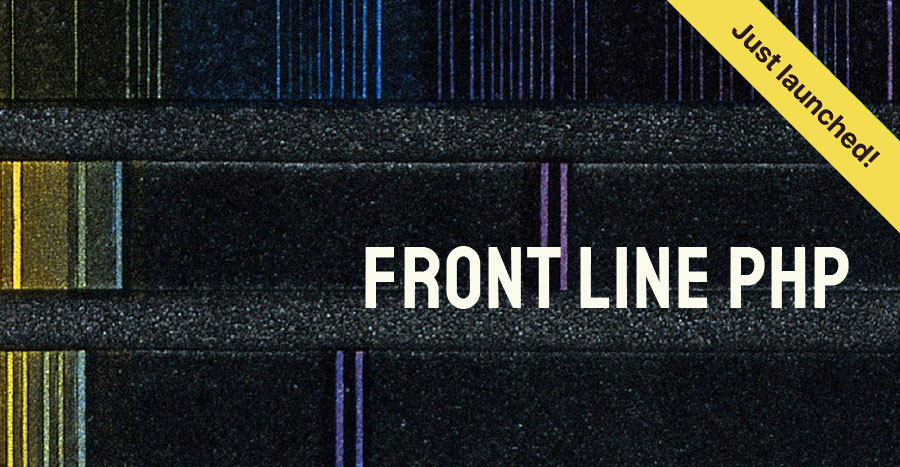
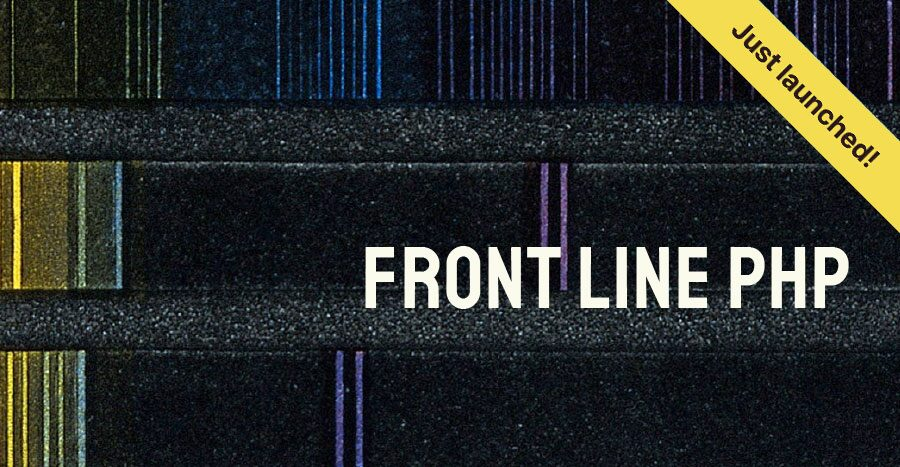
Serve smaller images

Changed region(s): [[0.8089, 0.06, 1.0, 0.3597], [0.84, 0.0, 0.8711, 0.06], [0.9956, 0.4797, 1.0, 0.5096]]

diff --git a/resources/views/front/home/index.blade.php b/resources/views/front/home/index.blade.php
@@ -56,7 +56,7 @@
     <section class="grid md:grid-cols-2 gap-8">
         <div class="">
             <a class="block" href="{{ route('object-oriented') }}">
-                <img alt="Front Line PHP" srcset="/images/cover-1200.jpg 1200w, /images/cover-600.jpg 600w" sizes="500px, (min-width:768px) 45vw" src="/images/cover-1200.jpg" class="mx-auto w-full max-w-xl shadow-2xl">
+                <img alt="Front Line PHP" srcset="/images/cover-1200.webp 1200w, /images/cover-600.webp 600w" sizes="(min-width: 768px) 432px, 576px" src="/images/cover-1200.webp" class="mx-auto w-full max-w-xl shadow-2xl">
                 <div class="absolute top-0 w-full flex justify-center -mt-6">
                     <x-button icon="fas fa-play">
                         Read sample
@@ -67,7 +67,7 @@
 
         <div class="pb-16" x-data="{ open: false }">
             <div class="w-full bg-black group cursor-hand" @click="open = true">
-                <img srcset="/images/intro-1600.jpg 1600w, /images/intro-800.jpg 800w" sizes="100vw, (min-width:768px) 45vw" src="/images/intro-1600.jpg" class="w-full opacity-100 group-hover:opacity-75 transition-opacity duration-300" alt="Video still">
+                <img srcset="/images/intro-1600.webp 1600w, /images/intro-800.webp 800w" sizes="(min-width: 768px) 432px, 100vw" src="/images/intro-1600.webp" class="w-full opacity-100 group-hover:opacity-75 transition-opacity duration-300" alt="Video still">
                 <div class="absolute -mt-6 top-0 w-full flex items-center justify-center">
                     <x-button icon="fas fa-play">
                         Watch intro
@@ -263,7 +263,7 @@
                 <a href="https://testing-laravel.com/" class="group max-w-xs  markup-links ">
                     <div
                         class="transform transition-transform duration-150 group-hover:shadow-2xl group-hover:-translate-y-1 shadow-lg bg-white p-4">
-                        <img width="750 " height="900" alt="Testing Laravel " src="images/testing-laravel.jpg">
+                        <img width="576" height="691" alt="Testing Laravel " src="/images/testing-laravel.webp">
                     </div>
                     <div class="pt-6 px-2 text-xs">
                         <p class="leading-relaxed">
@@ -277,7 +277,7 @@
                 <a href="https://event-sourcing-laravel.com"  class="group max-w-xs markup-links">
                     <div
                         class="transform transition-transform duration-150 group-hover:shadow-2xl group-hover:-translate-y-1 shadow-lg bg-white p-4">
-                        <img width="750 " height="900" alt="Front Line PHP" src="images/event-sourcing.jpg">
+                        <img width="576" height="691" alt="Front Line PHP" src="/images/event-sourcing.webp">
                     </div>
                     <div class="pt-6 px-2 text-xs">
                         <p class="leading-relaxed">
@@ -291,7 +291,7 @@
                 <a href="https://laravel-beyond-crud.com" class="group max-w-xs markup-links">
                     <div
                         class="transform transition-transform duration-150 group-hover:shadow-2xl group-hover:-translate-y-1 shadow-lg bg-white p-4">
-                        <img width="750 " height="900" alt="Laravel Beyond Crud" src="images/crud.jpg">
+                        <img width="576" height="691" alt="Laravel Beyond Crud" src="/images/crud.webp">
                     </div>
                     <div class="pt-6 px-2 text-xs">
                         <p class="leading-relaxed">
@@ -308,7 +308,7 @@
                 <a href="https://laravelpackage.training" class="group max-w-xs markup-links">
                     <div
                         class="transform transition-transform duration-150 group-hover:shadow-2xl group-hover:-translate-y-1 shadow-lg bg-white p-4">
-                        <img width="750 " height="900" alt="Laravel package Training" src="images/packagetraining.jpg">
+                        <img width="576" height="691" alt="Laravel package Training" src="/images/packagetraining.webp">
                     </div>
                     <div class="pt-6 px-2 text-xs">
                         <p class="leading-relaxed">

diff --git a/resources/views/partials/newsletter.blade.php b/resources/views/partials/newsletter.blade.php
@@ -22,7 +22,7 @@
 <div x-data="{ open: true }" x-show="open">
     @if(flash()->message)
         <div class="fixed z-50 fix-z top-0 left-0 h-16 w-full flex items-center justify-center py-8 px-4 bg-green-500 border-b border-black border-opacity-50 shadow-xl {{ flash()->class }} md:text-xl text-white text-center">
-            <img srcset="/images/footer-2400.jpg 2400w, /images/footer-1200.jpg 1200w" sizes="100vw" src="/images/footer-2400.jpg" class="absolute top-0 left-0 w-full h-full object-cover opacity-20">
+            <img srcset="/images/footer-2400.webp 2400w, /images/footer-1200.webp 1200w" sizes="100vw" src="/images/footer-2400.webp" class="absolute top-0 left-0 w-full h-full object-cover opacity-20">
             <span>{{ flash()->message }}</span>
 
             <a href="#" @click="open = false" class="p-4 opacity-50 hover:opacity-75">&times;</a>

diff --git a/resources/views/partials/footer.blade.php b/resources/views/partials/footer.blade.php
@@ -1,5 +1,5 @@
 <footer class="bg-black pt-32 pb-8">
-    <img alt="" srcset="/images/footer-2400.jpg 2400w, /images/footer-1200.jpg 1200w" sizes="100vw" src="/images/footer-2400.jpg" class="absolute top-0 left-0 w-full h-full object-cover opacity-20">
+    <img alt="" srcset="/images/footer-2400.webp 2400w, /images/footer-1200.webp 1200w" sizes="100vw" src="/images/footer-2400.webp" class="absolute top-0 left-0 w-full h-full object-cover opacity-20">
     <nav class="flex items-end justify-between mx-auto max-w-5xl px-4 sm:px-16">
         <a href="{{ spatieUrl() }}" class="h-8 inline-block">
             @include('partials.logo')

diff --git a/resources/views/partials/header.blade.php b/resources/views/partials/header.blade.php
@@ -1,1 +1,1 @@
-<img alt="" srcset="/images/header-2400.jpg 2400w, /images/header-1200.jpg 1200w" sizes="100vw" src="/images/header-2400.jpg" class="absolute top-0 left-0 w-full h-full object-cover">
+<img alt="" srcset="/images/header-2400.webp 2400w, /images/header-1200.webp 1200w" sizes="100vw" src="/images/header-2400.webp" class="absolute top-0 left-0 w-full h-full object-cover">
